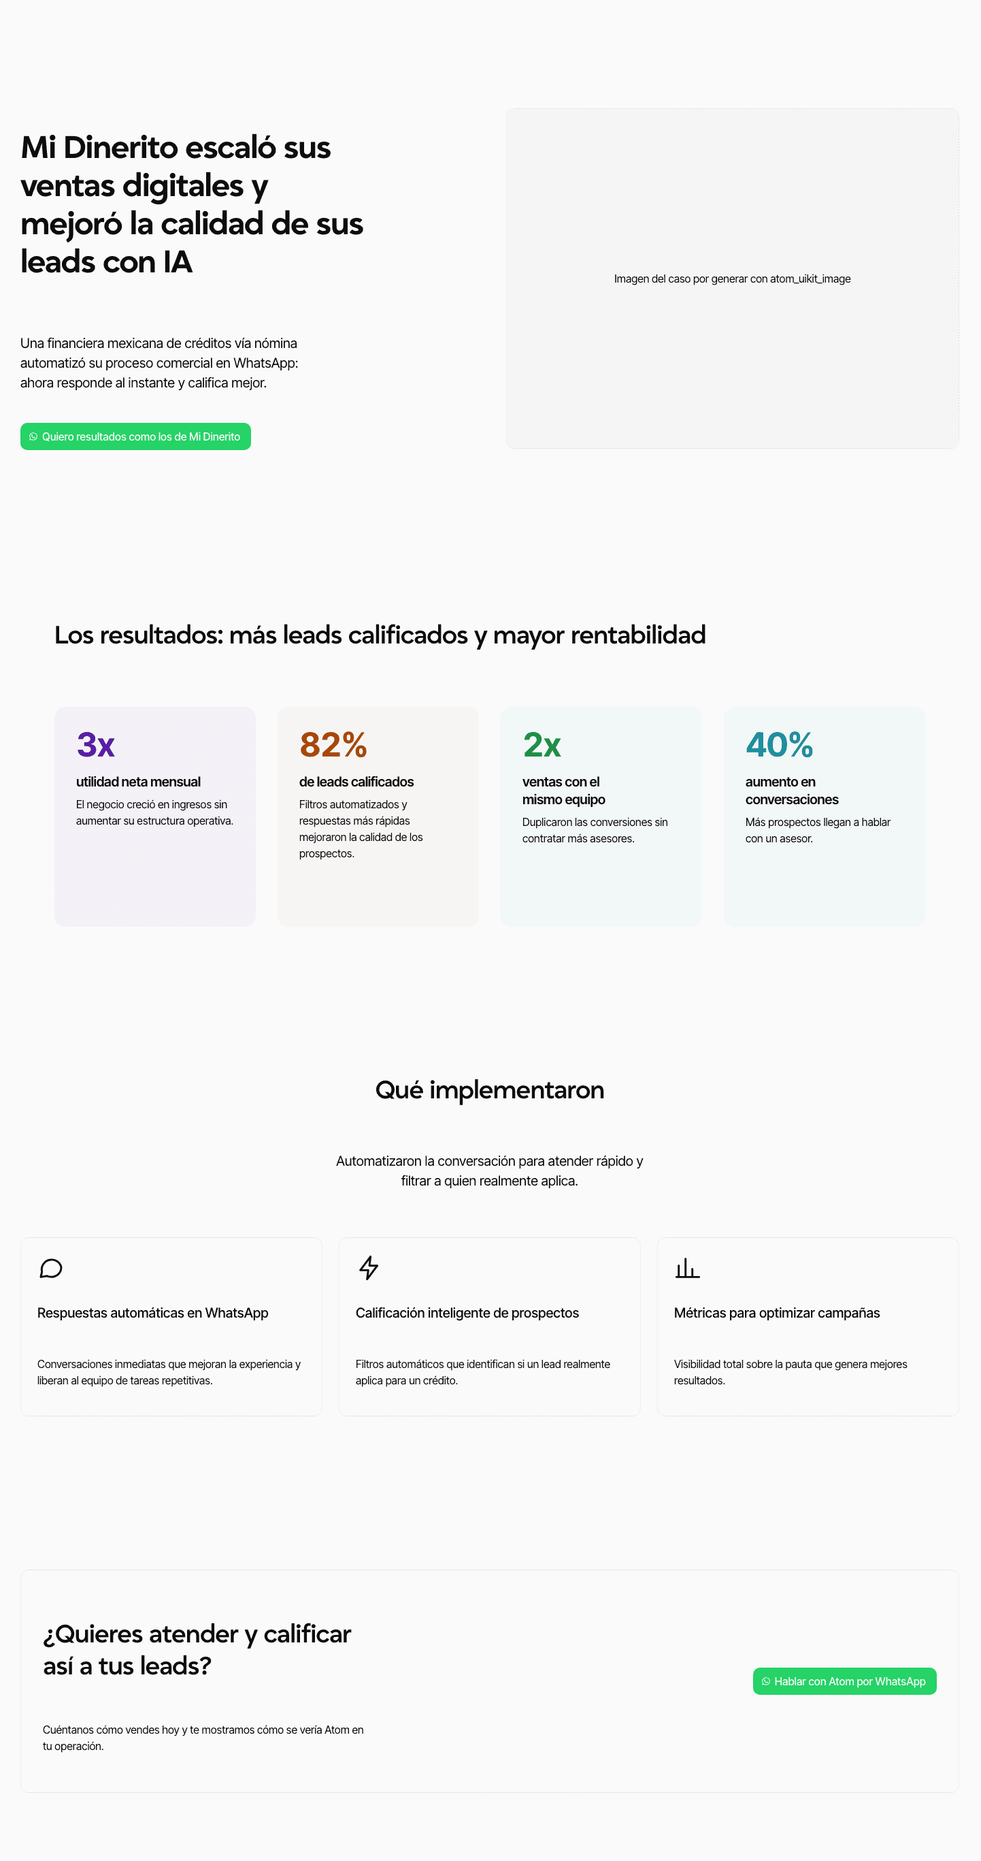
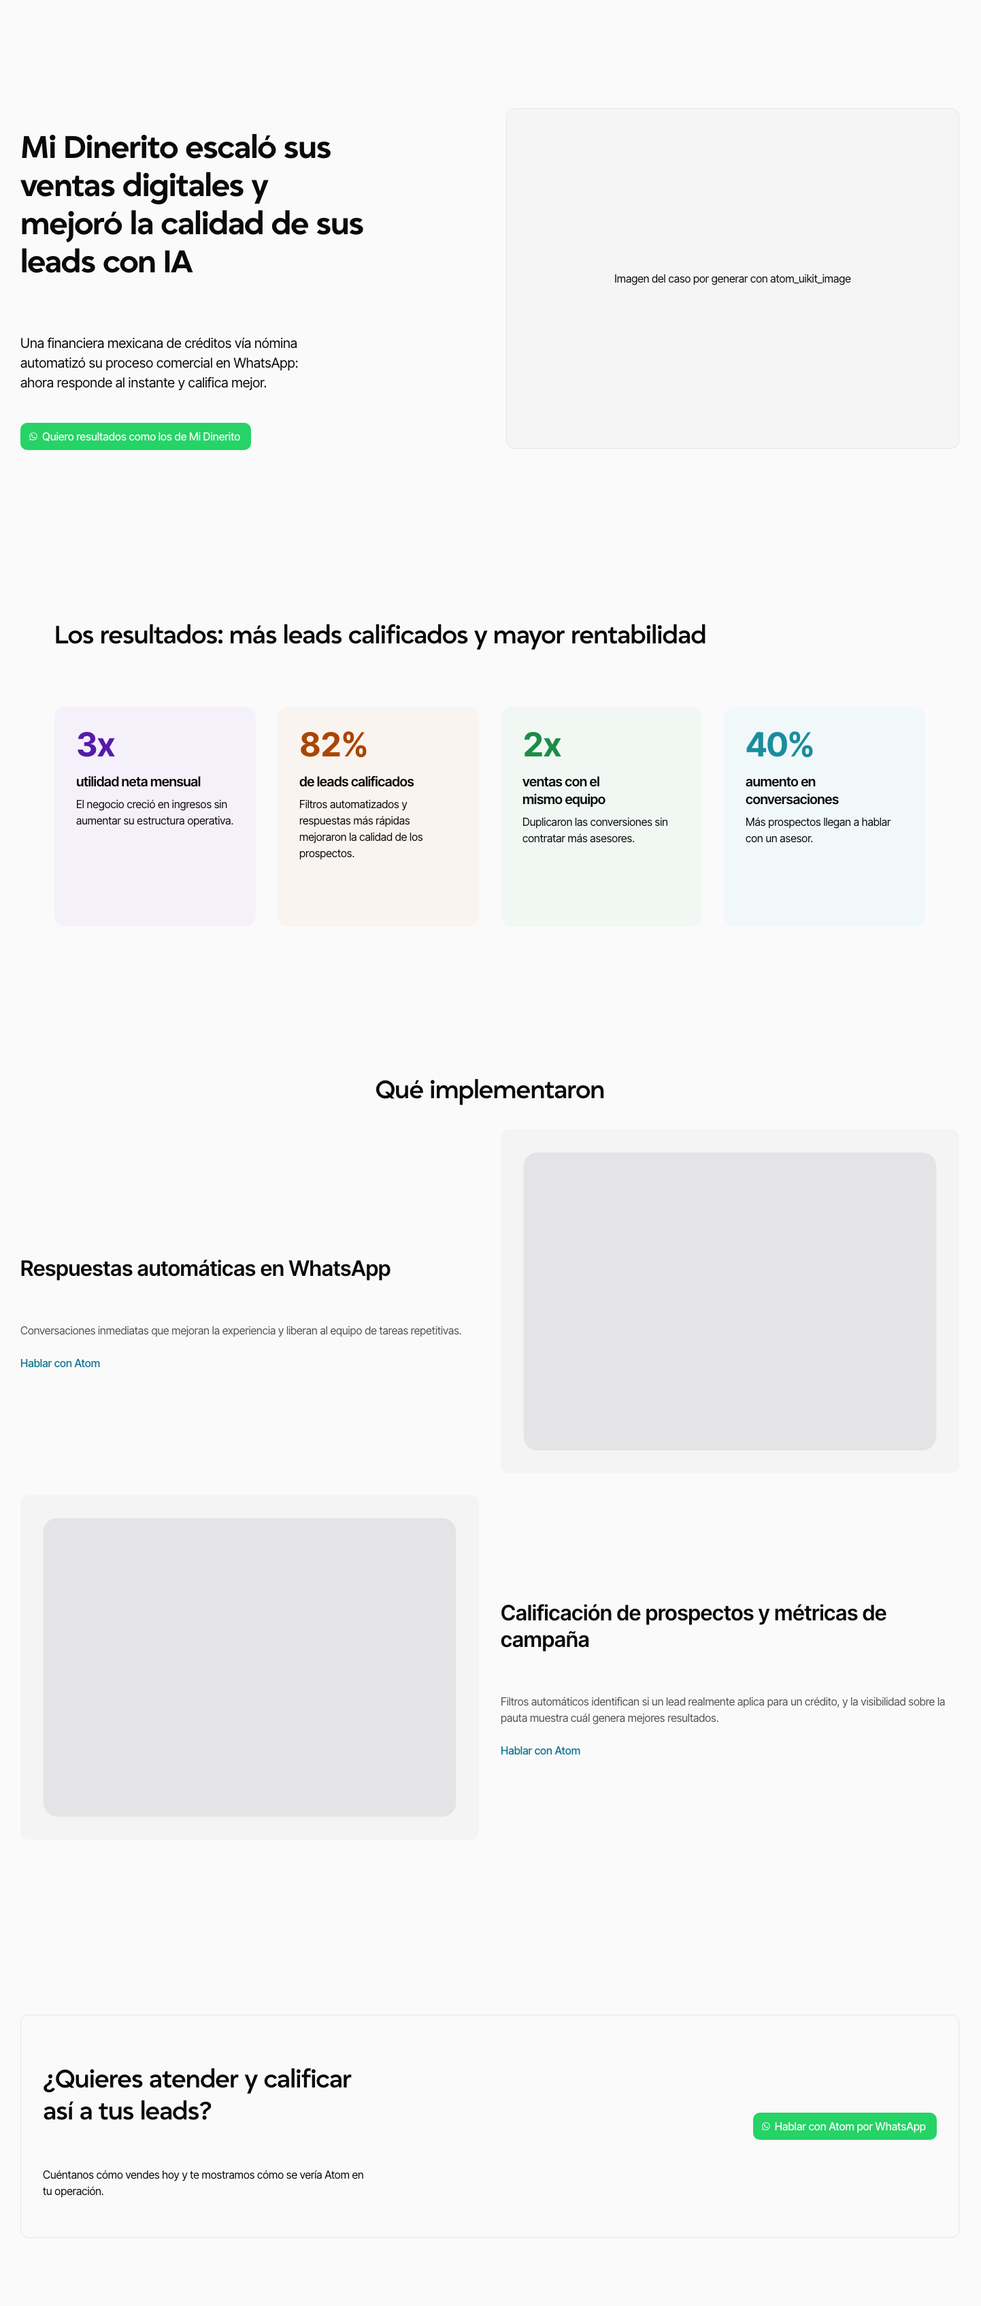
feat(skill): ejemplos alineados a los briefs de ola 1 con faq-accordion y feature-alternating (#93)
El mapeo firmado pedia objeciones en la landing y la pagina de producto, y secciones narrativas
alternadas en el caso de exito; la primera version usaba feature-grid y omitia las FAQ.

diff --git a/public/r/skills/atom-uikit/ejemplo/landing-pauta.md b/public/r/skills/atom-uikit/ejemplo/landing-pauta.md
@@ -10,7 +10,8 @@ solo por WhatsApp. Fuente de copy: la landing `leads-24-7` del CMS (`atom_lp_get
 | 1 | promesa | `layout/hero-split` | hay una imagen que respalda la promesa; sin ella iría `layout/hero-centered` |
 | 2 | beneficios | `layout/feature-grid` | tres beneficios paralelos y cortos, sin imagen por beneficio |
 | 3 | prueba | `layout/metrics-grid` | cuatro cifras de resultado; con menos de cuatro iría una banda de cifras |
-| 4 | cierre | `layout/cta-banner` | una frase y un único botón |
+| 4 | objeciones | `layout/faq-accordion` | cinco preguntas cortas en una columna; con más de seis irían dos columnas |
+| 5 | cierre | `layout/cta-banner` | una frase y un único botón |
 
 El brief pedía CTA y cierre por separado. La ola 1 no tiene un bloque de cierre distinto del banner, y
 dos bandas seguidas repetirían el mismo botón: el banner cubre las dos regiones.
@@ -18,9 +19,9 @@ dos bandas seguidas repetirían el mismo botón: el banner cubre las dos regione
 ## Decisiones de la skill (lo global)
 
 - **h1**: asignado al hero de la región 1, que es el único bloque elegible de la página. Los demás titulares son `h2`.
-- **Superficies**: las cuatro secciones en `default`. Cero oscuras; el tema no es IA y el presupuesto permite 0.
+- **Superficies**: las cinco secciones en `default`. Cero oscuras; el tema no es IA y el presupuesto permite 0.
 - **Ritmo**: `section--hero` solo en el hero, `section` en el cuerpo y `section--compact` en el cierre.
-- **Motion**: el de cada bloque, sin añadir ni suprimir. Animan 2 de 4 regiones (hero y rejilla de beneficios).
+- **Motion**: el de cada bloque, sin añadir ni suprimir. Animan 3 de 5 regiones (hero, beneficios y el accordion, que abre y cierra).
 - **CTA**: el botón de WhatsApp en variante inline, una vez en el hero y una en el cierre; un primario por sección.
 
 ## Copy de referencia sustituida
@@ -28,6 +29,7 @@ dos bandas seguidas repetirían el mismo botón: el banner cubre las dos regione
 - Hero: titular, apoyo y etiqueta del botón vienen del CMS, no del titular de referencia del bloque (era genérico de WhatsApp).
 - Beneficios: los tres títulos salen de la sección de solución de la landing; se acortaron a una línea y dos líneas de apoyo.
 - Cifras: +89% (agendamientos, automotriz), +86% (contactabilidad, educación), +40% (recuperación de leads, financiero) y +2.2x (lead calificado, automotriz). Las cuatro existen en el catálogo autorizado de cifras de landings con esa redacción; la etiqueta de industria va en la frase de apoyo porque las cifras son de industrias distintas.
+- Objeciones: precio, requisitos, CRM, puesta en marcha y equipo, con las respuestas de referencia del bloque ajustadas a lo que Atom ya publica (precio cotizado, integración con CRM). El bloque trae cinco preguntas fijas; el brief pedía de tres a cuatro y se conservan las cinco.
 - Cierre: titular y frase del cierre de la landing. Sin cuerpo de referencia.
 - Se quitó el eyebrow en todos los bloques: la jerarquía sale del tamaño.
 
@@ -35,7 +37,7 @@ dos bandas seguidas repetirían el mismo botón: el banner cubre las dos regione
 
 La mitad contable la corre `atom_uikit_finalize`, que vive en el conector y no se corrió al escribir este
 ejemplo. Equivalentes comprobados en el navegador sobre la página armada: un `h1`, cero elementos de
-formulario, cero marcadores sin resolver, dos enlaces a wa.me, ninguna sección oscura.
+formulario, cero marcadores sin resolver, tres enlaces a wa.me (hero, accordion, cierre), ninguna sección oscura.
 
 Líneas incumplidas y declaradas:
 

diff --git a/skills/atom-uikit/ejemplos/landing-pauta.md b/skills/atom-uikit/ejemplos/landing-pauta.md
@@ -10,7 +10,8 @@ solo por WhatsApp. Fuente de copy: la landing `leads-24-7` del CMS (`atom_lp_get
 | 1 | promesa | `layout/hero-split` | hay una imagen que respalda la promesa; sin ella iría `layout/hero-centered` |
 | 2 | beneficios | `layout/feature-grid` | tres beneficios paralelos y cortos, sin imagen por beneficio |
 | 3 | prueba | `layout/metrics-grid` | cuatro cifras de resultado; con menos de cuatro iría una banda de cifras |
-| 4 | cierre | `layout/cta-banner` | una frase y un único botón |
+| 4 | objeciones | `layout/faq-accordion` | cinco preguntas cortas en una columna; con más de seis irían dos columnas |
+| 5 | cierre | `layout/cta-banner` | una frase y un único botón |
 
 El brief pedía CTA y cierre por separado. La ola 1 no tiene un bloque de cierre distinto del banner, y
 dos bandas seguidas repetirían el mismo botón: el banner cubre las dos regiones.
@@ -18,9 +19,9 @@ dos bandas seguidas repetirían el mismo botón: el banner cubre las dos regione
 ## Decisiones de la skill (lo global)
 
 - **h1**: asignado al hero de la región 1, que es el único bloque elegible de la página. Los demás titulares son `h2`.
-- **Superficies**: las cuatro secciones en `default`. Cero oscuras; el tema no es IA y el presupuesto permite 0.
+- **Superficies**: las cinco secciones en `default`. Cero oscuras; el tema no es IA y el presupuesto permite 0.
 - **Ritmo**: `section--hero` solo en el hero, `section` en el cuerpo y `section--compact` en el cierre.
-- **Motion**: el de cada bloque, sin añadir ni suprimir. Animan 2 de 4 regiones (hero y rejilla de beneficios).
+- **Motion**: el de cada bloque, sin añadir ni suprimir. Animan 3 de 5 regiones (hero, beneficios y el accordion, que abre y cierra).
 - **CTA**: el botón de WhatsApp en variante inline, una vez en el hero y una en el cierre; un primario por sección.
 
 ## Copy de referencia sustituida
@@ -28,6 +29,7 @@ dos bandas seguidas repetirían el mismo botón: el banner cubre las dos regione
 - Hero: titular, apoyo y etiqueta del botón vienen del CMS, no del titular de referencia del bloque (era genérico de WhatsApp).
 - Beneficios: los tres títulos salen de la sección de solución de la landing; se acortaron a una línea y dos líneas de apoyo.
 - Cifras: +89% (agendamientos, automotriz), +86% (contactabilidad, educación), +40% (recuperación de leads, financiero) y +2.2x (lead calificado, automotriz). Las cuatro existen en el catálogo autorizado de cifras de landings con esa redacción; la etiqueta de industria va en la frase de apoyo porque las cifras son de industrias distintas.
+- Objeciones: precio, requisitos, CRM, puesta en marcha y equipo, con las respuestas de referencia del bloque ajustadas a lo que Atom ya publica (precio cotizado, integración con CRM). El bloque trae cinco preguntas fijas; el brief pedía de tres a cuatro y se conservan las cinco.
 - Cierre: titular y frase del cierre de la landing. Sin cuerpo de referencia.
 - Se quitó el eyebrow en todos los bloques: la jerarquía sale del tamaño.
 
@@ -35,7 +37,7 @@ dos bandas seguidas repetirían el mismo botón: el banner cubre las dos regione
 
 La mitad contable la corre `atom_uikit_finalize`, que vive en el conector y no se corrió al escribir este
 ejemplo. Equivalentes comprobados en el navegador sobre la página armada: un `h1`, cero elementos de
-formulario, cero marcadores sin resolver, dos enlaces a wa.me, ninguna sección oscura.
+formulario, cero marcadores sin resolver, tres enlaces a wa.me (hero, accordion, cierre), ninguna sección oscura.
 
 Líneas incumplidas y declaradas:
 

diff --git a/public/r/skills/atom-uikit/ejemplo/pagina-de-producto.md b/public/r/skills/atom-uikit/ejemplo/pagina-de-producto.md
@@ -13,17 +13,19 @@ contrastarla con el cuerpo real.
 |---|---|---|---|
 | 1 | promesa | `layout/hero-centered` | el titular carga todo el peso y no hay imagen |
 | 2 | beneficios | `layout/feature-grid` | tres capacidades paralelas y cortas |
-| 3 | prueba | `layout/metrics-grid` | cuatro cifras de resultado |
-| 4 | planes | `layout/pricing-plans` | los dos planes de Atom, sin precio publicado |
-| 5 | cierre | `layout/cta-banner` | una frase y un único botón |
+| 3 | profundidad | `layout/feature-alternating` | dos capacidades explicadas a fondo, con imagen |
+| 4 | prueba | `layout/metrics-grid` | cuatro cifras de resultado |
+| 5 | planes | `layout/pricing-plans` | los dos planes de Atom, sin precio publicado |
+| 6 | objeciones | `layout/faq-accordion` | cinco preguntas cortas en una columna |
+| 7 | cierre | `layout/cta-banner` | una frase y un único botón |
 
 ## Decisiones de la skill (lo global)
 
 - **h1**: asignado al hero centrado, titular propio del documento. Es el único elegible de la página.
-- **Superficies**: las cinco secciones en `default`. La tarjeta destacada de los planes es oscura por el componente, no por la sección; el presupuesto de la página sigue en 0 secciones oscuras.
+- **Superficies**: las siete secciones en `default`. La tarjeta destacada de los planes es oscura por el componente, no por la sección; el presupuesto de la página sigue en 0 secciones oscuras.
 - **Ritmo**: `section--hero` solo en el hero; `section` en el cuerpo; `section--compact` en el cierre.
-- **Motion**: el de cada bloque, sin añadir ni suprimir. Animan 3 de 5 regiones (hero, beneficios y titular de planes).
-- **CTA**: el botón de WhatsApp inline en hero, cada plan y cierre, un primario por sección. Los de los planes antes eran botones genéricos a wa.me; ahora son el mismo botón de WhatsApp que el resto.
+- **Motion**: el de cada bloque, sin añadir ni suprimir. Animan 4 de 7 regiones (hero, beneficios, titular de planes y accordion).
+- **CTA**: el botón de WhatsApp inline en hero, cada plan, accordion y cierre, un primario por sección. Los de los planes antes eran botones genéricos a wa.me; ahora son el mismo botón de WhatsApp que el resto.
 
 ## Copy de referencia sustituida
 
@@ -31,12 +33,14 @@ contrastarla con el cuerpo real.
 - Capacidades: tres frases que solo reformulan la descripción del documento (conversación de punta a punta, cerebro comercial, medición).
 - Cifras: +82%, +40%, -30% y +5x, de financieras, tal como existen en el catálogo autorizado. Se eligió una sola industria para que la sección cuente una historia.
 - Planes: los planes y beneficios de referencia ya son los de Atom, sin cifras de precio ("a tu medida"); solo cambió el titular.
+- Profundidad: dos secciones con las mismas dos ideas del documento (conversación de punta a punta y Cortex); las imágenes son recuadros de referencia, por generar.
+- Objeciones: las cinco preguntas del bloque con sus respuestas de referencia, que ya hablan de lo que Atom publica (precio cotizado, CRM, puesta en marcha).
 - Cierre: se conserva el titular de referencia, que ya cumple el tono.
 
 ## Resultado del checklist
 
 `atom_uikit_finalize` no se corrió al escribir este ejemplo. Comprobado en el navegador: un `h1`, cero
-elementos de formulario, cero marcadores sin resolver, cuatro enlaces a wa.me (hero, dos planes, cierre).
+elementos de formulario, cero marcadores sin resolver, siete enlaces a wa.me (hero, dos secciones de profundidad, dos planes, accordion, cierre).
 
 Líneas incumplidas y declaradas:
 

diff --git a/skills/atom-uikit/ejemplos/pagina-de-producto.md b/skills/atom-uikit/ejemplos/pagina-de-producto.md
@@ -13,17 +13,19 @@ contrastarla con el cuerpo real.
 |---|---|---|---|
 | 1 | promesa | `layout/hero-centered` | el titular carga todo el peso y no hay imagen |
 | 2 | beneficios | `layout/feature-grid` | tres capacidades paralelas y cortas |
-| 3 | prueba | `layout/metrics-grid` | cuatro cifras de resultado |
-| 4 | planes | `layout/pricing-plans` | los dos planes de Atom, sin precio publicado |
-| 5 | cierre | `layout/cta-banner` | una frase y un único botón |
+| 3 | profundidad | `layout/feature-alternating` | dos capacidades explicadas a fondo, con imagen |
+| 4 | prueba | `layout/metrics-grid` | cuatro cifras de resultado |
+| 5 | planes | `layout/pricing-plans` | los dos planes de Atom, sin precio publicado |
+| 6 | objeciones | `layout/faq-accordion` | cinco preguntas cortas en una columna |
+| 7 | cierre | `layout/cta-banner` | una frase y un único botón |
 
 ## Decisiones de la skill (lo global)
 
 - **h1**: asignado al hero centrado, titular propio del documento. Es el único elegible de la página.
-- **Superficies**: las cinco secciones en `default`. La tarjeta destacada de los planes es oscura por el componente, no por la sección; el presupuesto de la página sigue en 0 secciones oscuras.
+- **Superficies**: las siete secciones en `default`. La tarjeta destacada de los planes es oscura por el componente, no por la sección; el presupuesto de la página sigue en 0 secciones oscuras.
 - **Ritmo**: `section--hero` solo en el hero; `section` en el cuerpo; `section--compact` en el cierre.
-- **Motion**: el de cada bloque, sin añadir ni suprimir. Animan 3 de 5 regiones (hero, beneficios y titular de planes).
-- **CTA**: el botón de WhatsApp inline en hero, cada plan y cierre, un primario por sección. Los de los planes antes eran botones genéricos a wa.me; ahora son el mismo botón de WhatsApp que el resto.
+- **Motion**: el de cada bloque, sin añadir ni suprimir. Animan 4 de 7 regiones (hero, beneficios, titular de planes y accordion).
+- **CTA**: el botón de WhatsApp inline en hero, cada plan, accordion y cierre, un primario por sección. Los de los planes antes eran botones genéricos a wa.me; ahora son el mismo botón de WhatsApp que el resto.
 
 ## Copy de referencia sustituida
 
@@ -31,12 +33,14 @@ contrastarla con el cuerpo real.
 - Capacidades: tres frases que solo reformulan la descripción del documento (conversación de punta a punta, cerebro comercial, medición).
 - Cifras: +82%, +40%, -30% y +5x, de financieras, tal como existen en el catálogo autorizado. Se eligió una sola industria para que la sección cuente una historia.
 - Planes: los planes y beneficios de referencia ya son los de Atom, sin cifras de precio ("a tu medida"); solo cambió el titular.
+- Profundidad: dos secciones con las mismas dos ideas del documento (conversación de punta a punta y Cortex); las imágenes son recuadros de referencia, por generar.
+- Objeciones: las cinco preguntas del bloque con sus respuestas de referencia, que ya hablan de lo que Atom publica (precio cotizado, CRM, puesta en marcha).
 - Cierre: se conserva el titular de referencia, que ya cumple el tono.
 
 ## Resultado del checklist
 
 `atom_uikit_finalize` no se corrió al escribir este ejemplo. Comprobado en el navegador: un `h1`, cero
-elementos de formulario, cero marcadores sin resolver, cuatro enlaces a wa.me (hero, dos planes, cierre).
+elementos de formulario, cero marcadores sin resolver, siete enlaces a wa.me (hero, dos secciones de profundidad, dos planes, accordion, cierre).
 
 Líneas incumplidas y declaradas:
 

diff --git a/public/r/skills/atom-uikit/ejemplo/caso-de-exito.md b/public/r/skills/atom-uikit/ejemplo/caso-de-exito.md
@@ -9,12 +9,10 @@ marketing y ventas de financieras. Fuente de copy: el caso `mi-dinerito` del CMS
 |---|---|---|---|
 | 1 | promesa | `layout/hero-split` | el caso trae imagen de cabecera |
 | 2 | prueba | `layout/metrics-grid` | los resultados son el argumento: van antes de explicar cómo |
-| 3 | beneficios | `layout/feature-grid` | tres piezas implementadas, paralelas y cortas |
+| 3 | beneficios | `layout/feature-alternating` | lo implementado se cuenta como dos secciones narrativas con imagen, alternadas |
 | 4 | cierre | `layout/cta-banner` | una frase y un único botón |
 
-Sin tabla de contenido ni cabecera de página: el caso es corto y no los necesita. La cita de la
-trafficker de Mi Dinerito no tiene bloque en la ola 1 (el bloque de testimonio aún no tiene ejemplar):
-hallazgo de catálogo, la región se recorta y la cita queda fuera de la página en vez de inventar markup.
+Es a propósito el caso corto: sin tabla de contenido, cabecera de página ni testimonio. El caso largo con índice y la cita de la trafficker de Mi Dinerito queda como límite conocido de la ola 1 (el bloque de testimonio aún no tiene ejemplar); la región se recorta en vez de inventar markup.
 
 ## Decisiones de la skill (lo global)
 
@@ -29,19 +27,20 @@ hallazgo de catálogo, la región se recorta y la cita queda fuera de la página
 
 - Hero: titular y apoyo del caso (intro resumida a una frase). El botón habla del lector, no de Atom.
 - Cifras: 3x utilidad neta, 82% de leads calificados, 2x ventas con el mismo equipo y 40% de aumento en conversaciones. Son los resultados del caso publicado, no del catálogo de landings; se citan tal como el caso las publica.
-- Beneficios: las tres piezas de la solución del caso (respuestas automáticas, calificación de prospectos, métricas de campañas), con su frase de apoyo original.
+- Beneficios: las tres piezas de la solución del caso en dos secciones: respuestas automáticas, y calificación de prospectos junto con métricas de campaña, con su frase de apoyo original. Los enlaces de texto del bloque apuntan a wa.me y no son el CTA primario.
+- Imágenes de las dos secciones: recuadros de referencia, por generar.
 - Cierre: pregunta al lector con el mismo tono del caso.
 
 ## Resultado del checklist
 
 `atom_uikit_finalize` no se corrió al escribir este ejemplo. Comprobado en el navegador: un `h1`, cero
-elementos de formulario, cero marcadores sin resolver, dos enlaces a wa.me, ninguna sección oscura.
+elementos de formulario, cero marcadores sin resolver, cuatro enlaces a wa.me (hero, dos de las secciones, cierre), ninguna sección oscura.
 
 Líneas incumplidas y declaradas:
 
 - El número de WhatsApp es `00000000000`: el brief no trae uno confirmado.
-- La imagen del hero es un recuadro con texto; falta generarla con `atom_uikit_image`.
-- Falta la cita del cliente por falta de bloque (hallazgo de catálogo, arriba).
+- Las imágenes del hero y de las dos secciones son recuadros de referencia; faltan generarlas con `atom_uikit_image`.
+- Falta la cita del cliente por falta de bloque (límite conocido, arriba).
 
 ## Captura
 

diff --git a/skills/atom-uikit/ejemplos/caso-de-exito.md b/skills/atom-uikit/ejemplos/caso-de-exito.md
@@ -9,12 +9,10 @@ marketing y ventas de financieras. Fuente de copy: el caso `mi-dinerito` del CMS
 |---|---|---|---|
 | 1 | promesa | `layout/hero-split` | el caso trae imagen de cabecera |
 | 2 | prueba | `layout/metrics-grid` | los resultados son el argumento: van antes de explicar cómo |
-| 3 | beneficios | `layout/feature-grid` | tres piezas implementadas, paralelas y cortas |
+| 3 | beneficios | `layout/feature-alternating` | lo implementado se cuenta como dos secciones narrativas con imagen, alternadas |
 | 4 | cierre | `layout/cta-banner` | una frase y un único botón |
 
-Sin tabla de contenido ni cabecera de página: el caso es corto y no los necesita. La cita de la
-trafficker de Mi Dinerito no tiene bloque en la ola 1 (el bloque de testimonio aún no tiene ejemplar):
-hallazgo de catálogo, la región se recorta y la cita queda fuera de la página en vez de inventar markup.
+Es a propósito el caso corto: sin tabla de contenido, cabecera de página ni testimonio. El caso largo con índice y la cita de la trafficker de Mi Dinerito queda como límite conocido de la ola 1 (el bloque de testimonio aún no tiene ejemplar); la región se recorta en vez de inventar markup.
 
 ## Decisiones de la skill (lo global)
 
@@ -29,19 +27,20 @@ hallazgo de catálogo, la región se recorta y la cita queda fuera de la página
 
 - Hero: titular y apoyo del caso (intro resumida a una frase). El botón habla del lector, no de Atom.
 - Cifras: 3x utilidad neta, 82% de leads calificados, 2x ventas con el mismo equipo y 40% de aumento en conversaciones. Son los resultados del caso publicado, no del catálogo de landings; se citan tal como el caso las publica.
-- Beneficios: las tres piezas de la solución del caso (respuestas automáticas, calificación de prospectos, métricas de campañas), con su frase de apoyo original.
+- Beneficios: las tres piezas de la solución del caso en dos secciones: respuestas automáticas, y calificación de prospectos junto con métricas de campaña, con su frase de apoyo original. Los enlaces de texto del bloque apuntan a wa.me y no son el CTA primario.
+- Imágenes de las dos secciones: recuadros de referencia, por generar.
 - Cierre: pregunta al lector con el mismo tono del caso.
 
 ## Resultado del checklist
 
 `atom_uikit_finalize` no se corrió al escribir este ejemplo. Comprobado en el navegador: un `h1`, cero
-elementos de formulario, cero marcadores sin resolver, dos enlaces a wa.me, ninguna sección oscura.
+elementos de formulario, cero marcadores sin resolver, cuatro enlaces a wa.me (hero, dos de las secciones, cierre), ninguna sección oscura.
 
 Líneas incumplidas y declaradas:
 
 - El número de WhatsApp es `00000000000`: el brief no trae uno confirmado.
-- La imagen del hero es un recuadro con texto; falta generarla con `atom_uikit_image`.
-- Falta la cita del cliente por falta de bloque (hallazgo de catálogo, arriba).
+- Las imágenes del hero y de las dos secciones son recuadros de referencia; faltan generarlas con `atom_uikit_image`.
+- Falta la cita del cliente por falta de bloque (límite conocido, arriba).
 
 ## Captura
 
